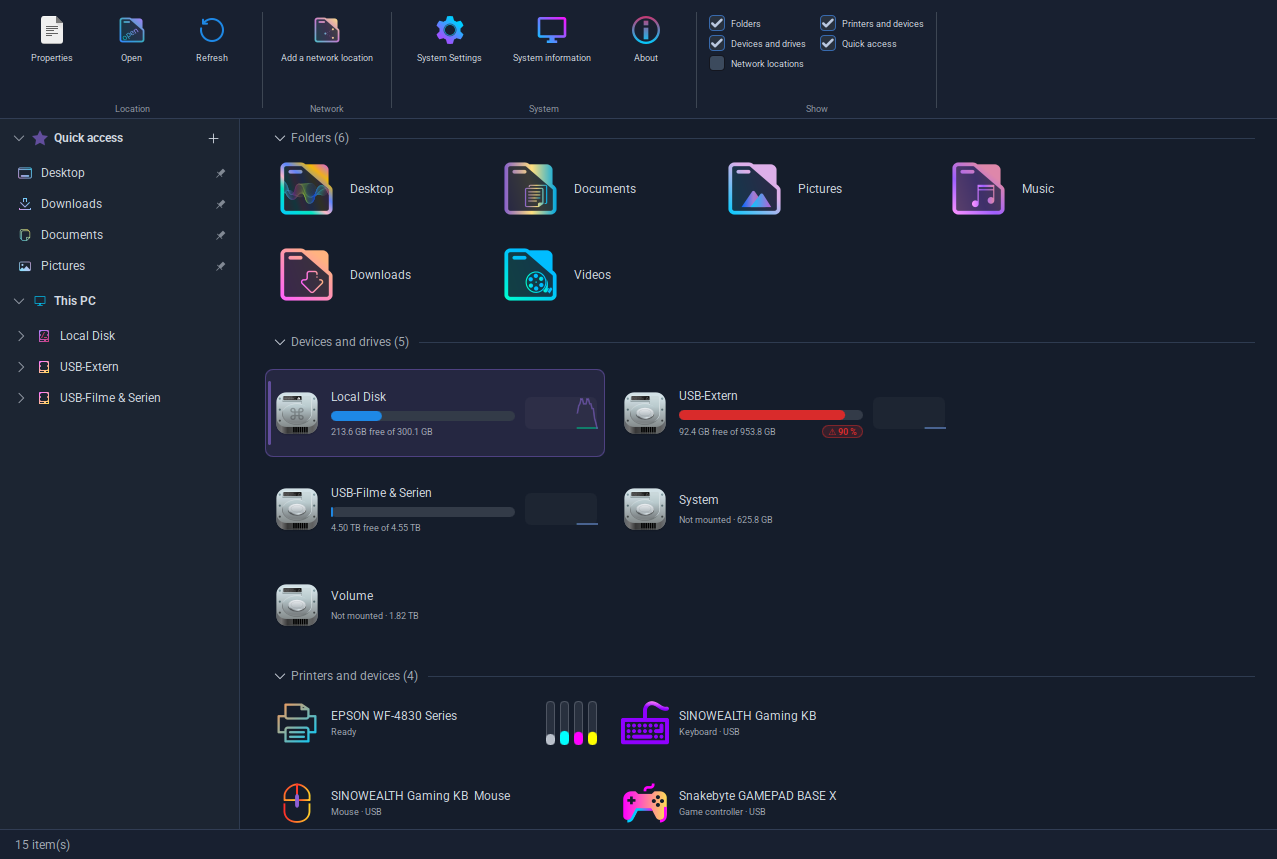
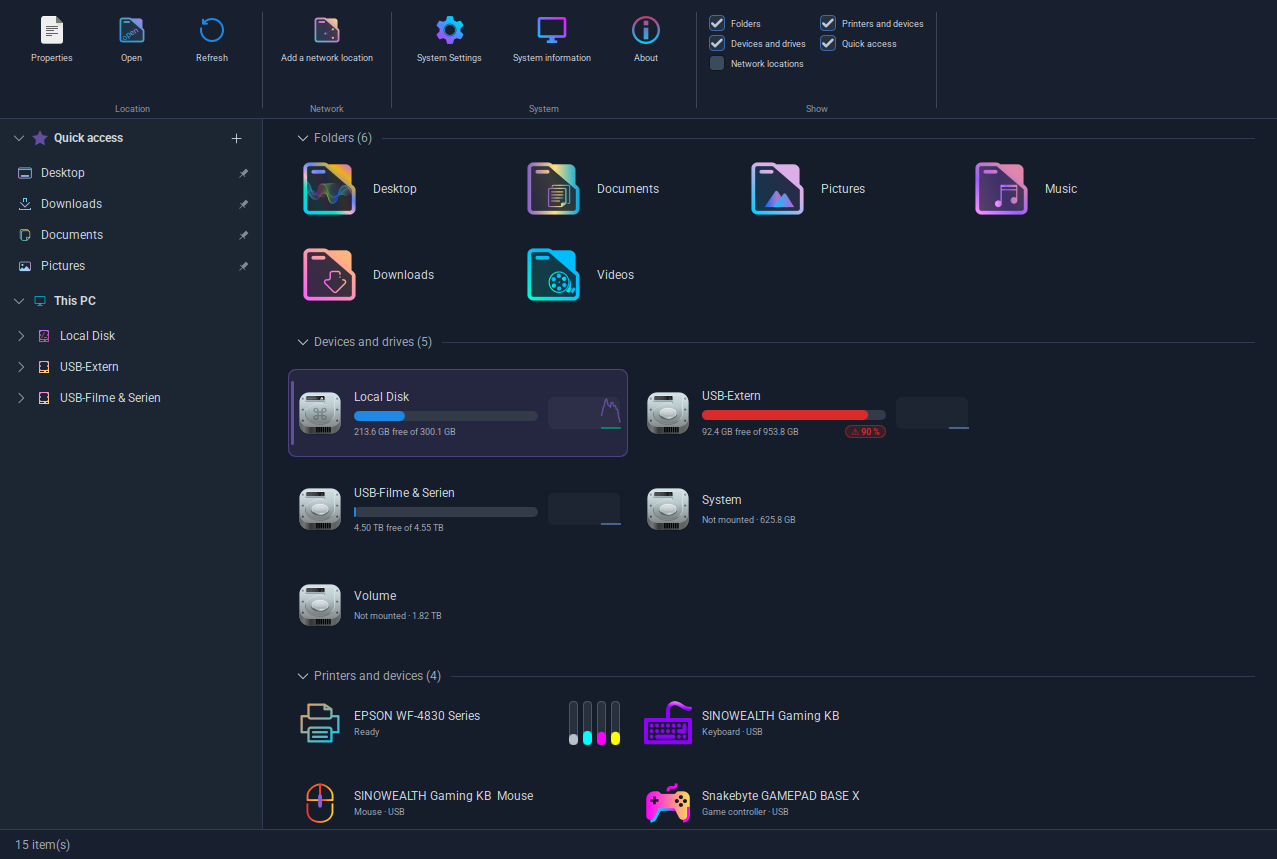
Align the sidebar edge with the first ribbon separator; refresh preview

diff --git a/ce_pc_plasma.py b/ce_pc_plasma.py
@@ -2433,6 +2433,11 @@ QQC2.ApplicationWindow {
     }
     // seitenleiste : Baum « Dieser PC » (Laufwerke -> Ordner, Unterordner erst beim Aufklappen im Hintergrund geladen)
     property bool pcCollapsed: false
+    // Breite der Seitenleiste : ihre rechte Kante (1 px Rahmen) liegt exakt auf der ersten Ribbon-Trennlinie,
+    // auch bei anderer Sprache oder Schriftgröße (die Gruppe « Standort » wird dann breiter oder schmaler)
+    property var firstGrp: null
+    property var firstSep: null
+    readonly property real sideWidth: (firstGrp && firstSep) ? Math.max(180, Math.round(ribbonRow.x + firstGrp.x + firstSep.x + 1)) : 240
     property string sideSelKey: ""   // zuletzt angeklickte Zeile der Seitenleiste (bleibt, bis eine andere angeklickt wird)
     property var treeOpen: ({})
     property var treeKids: ({})
@@ -3344,6 +3349,7 @@ QQC2.ApplicationWindow {
                             }
 
                             Rectangle {
+                                id: grpSep
                                 Layout.preferredWidth: 1
                                 Layout.fillHeight: true
                                 Layout.topMargin: 6
@@ -3352,6 +3358,8 @@ QQC2.ApplicationWindow {
                                 Layout.rightMargin: 8
                                 color: Qt.rgba(Kirigami.Theme.textColor.r, Kirigami.Theme.textColor.g,
                                                Kirigami.Theme.textColor.b, 0.2)
+                                // Die Seitenleiste endet genau auf der ersten Trennlinie (neben « Aktualisieren »)
+                                Component.onCompleted: if (index === 0) { win.firstGrp = grp; win.firstSep = grpSep }
                             }
                         }
                     }
@@ -3462,7 +3470,7 @@ QQC2.ApplicationWindow {
                 anchors.left: parent.left
                 anchors.top: parent.top
                 anchors.bottom: parent.bottom
-                width: visible ? 240 : 0
+                width: visible ? win.sideWidth : 0
                 color: Qt.rgba(Kirigami.Theme.textColor.r, Kirigami.Theme.textColor.g, Kirigami.Theme.textColor.b, 0.04)
                 Kirigami.Separator { anchors.right: parent.right; height: parent.height }
 

diff --git a/CHANGELOG.md b/CHANGELOG.md
@@ -54,6 +54,8 @@ hidden and everything else works).
   The clicked row stays highlighted (accent tint and outline) until another one is clicked; the hover highlight covers the
   whole row, not only the icon (a label swallows hover events, so the row uses a `HoverHandler` instead of a `MouseArea`).
   Expanding or collapsing keeps the scroll position of the list.
+  The right edge of the pane lies exactly on the first vertical line of the ribbon (next to *Refresh*), so both form one
+  continuous line; the width follows the ribbon (`sideWidth`), also with another language or font size.
   Every node can be pinned to Quick access with its pin symbol or the right-click menu. The system drive expands to
   the home folder, exactly like opening its card.
 - `pin_normaliser`: pins are compared with `~` expanded and trailing slashes removed; symbolic links are **not** resolved
